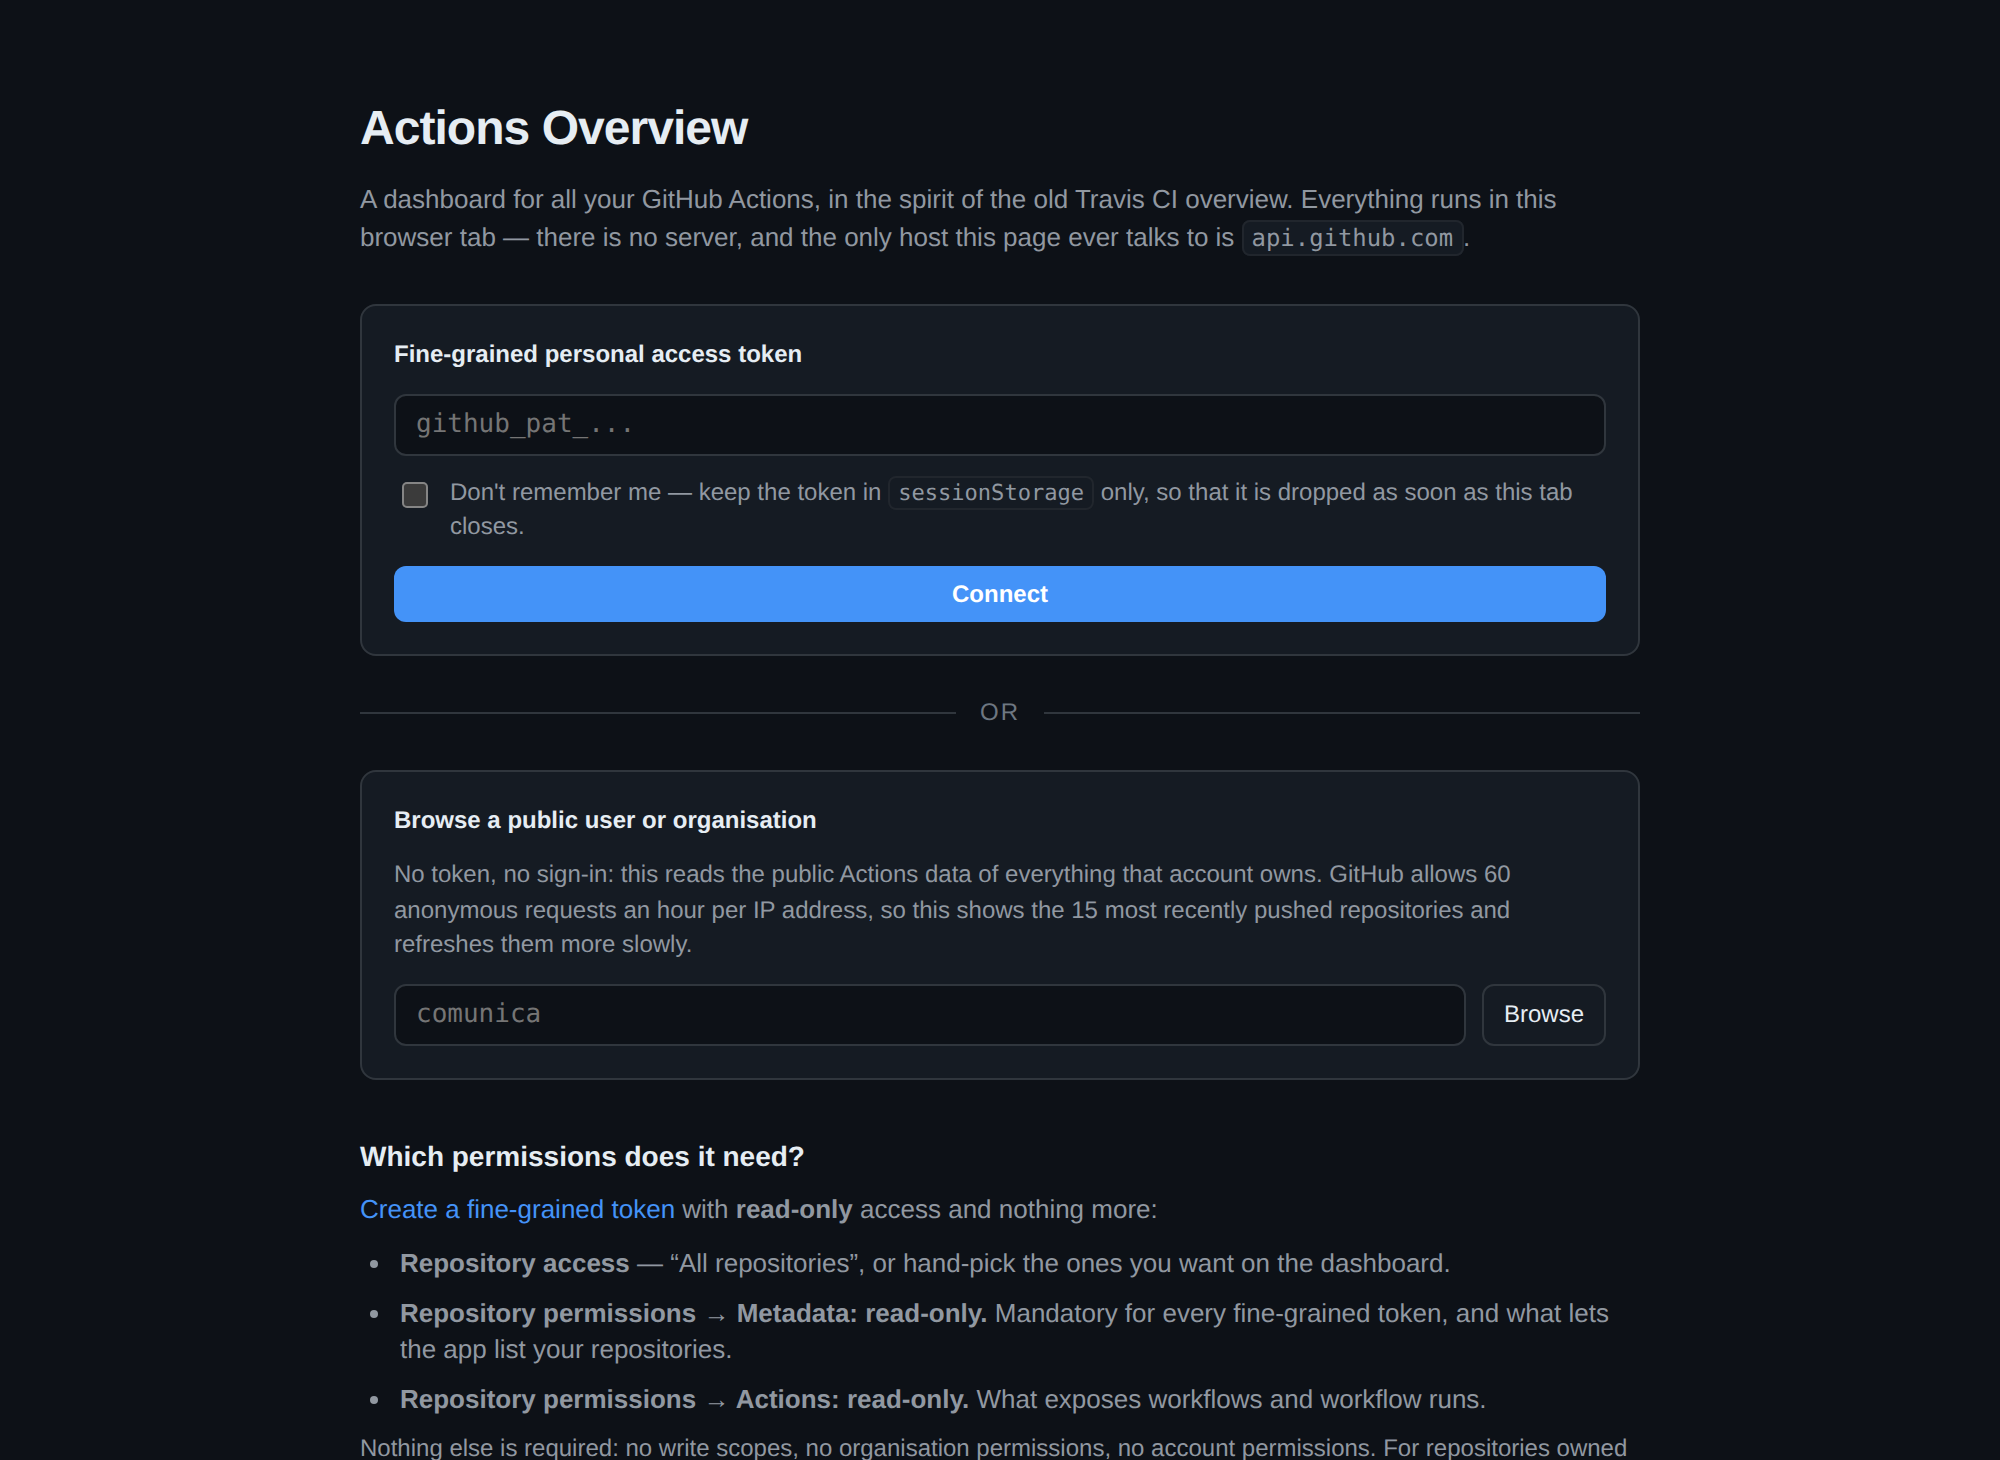
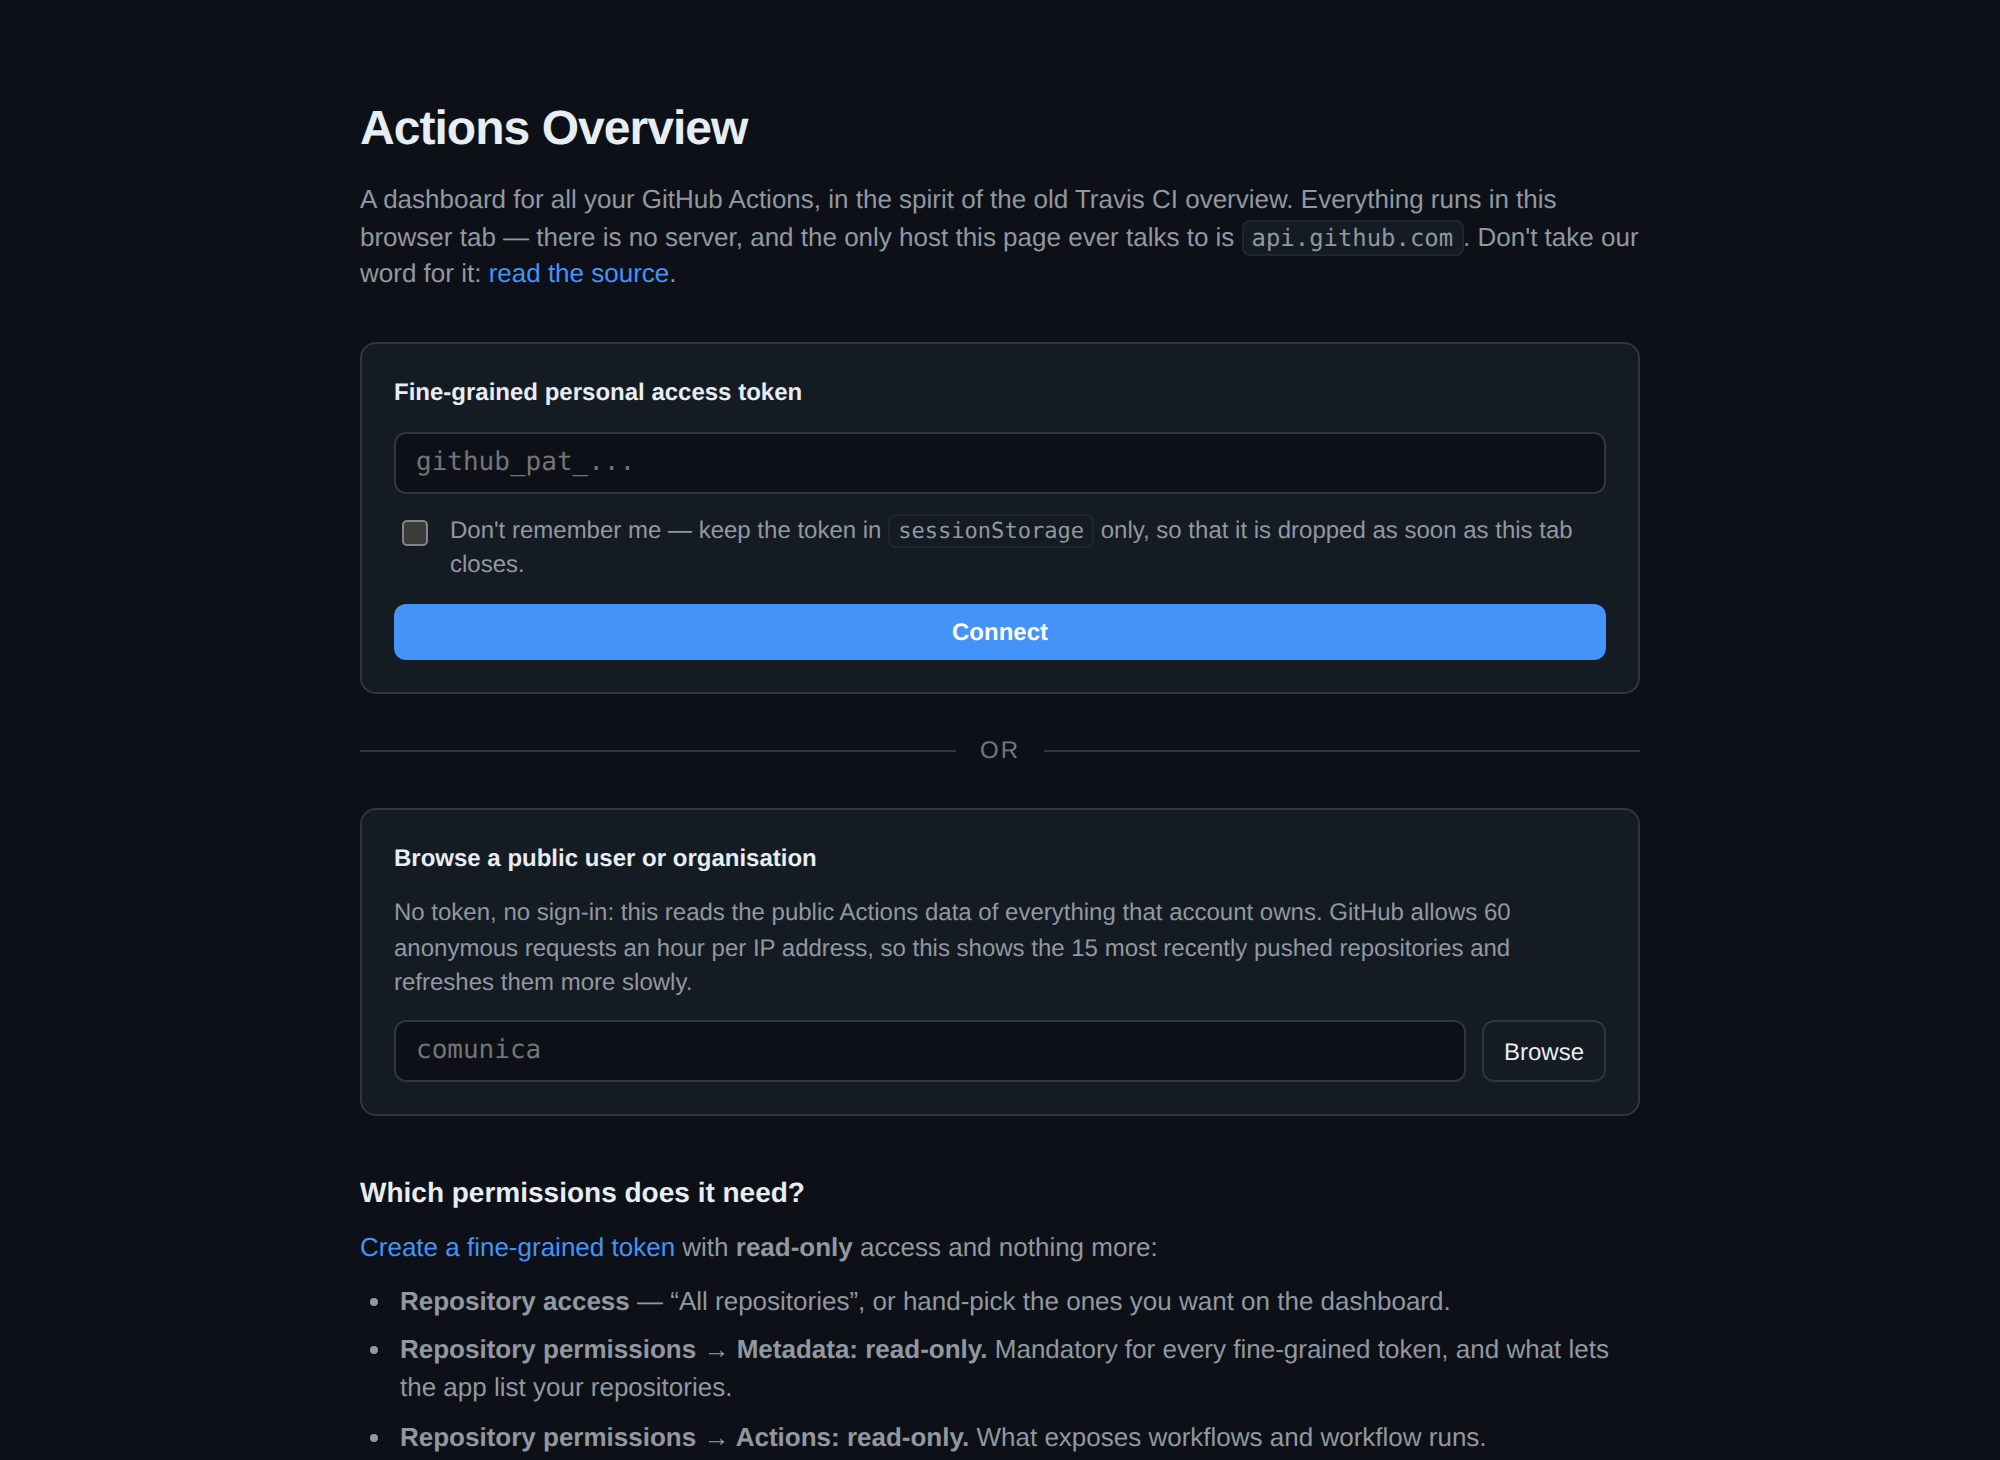
Link to the source from the status bar and the setup screen
A page that asks for a GitHub token should make it easy to go and read what it
does with that token, so the claim that nothing leaves the browser is checkable
rather than just asserted.

The setup screen links twice: from the lead paragraph, right after the claim
itself, and from a page footer that also names the licence. The status bar
carries a quiet "source" link at its right edge, hidden below 720px where the
bar has no room to spare.

The URL lives in one constant shared by both, so they cannot drift apart.

Claude-Session: https://claude.ai/code/session_0187wP9uN6boBhmaVQ3W6TAn

diff --git a/src/components/setup-screen.tsx b/src/components/setup-screen.tsx
@@ -1,4 +1,5 @@
 import { useState } from 'react';
+import { SOURCE_URL } from '../lib/links';
 
 const TOKEN_URL = 'https://github.com/settings/personal-access-tokens/new';
 
@@ -53,7 +54,10 @@ export function SetupScreen({ onConnect, onBrowse, initialError }: ISetupScreenP
         <p className="setup__lead">
           A dashboard for all your GitHub Actions, in the spirit of the old Travis CI overview.
           Everything runs in this browser tab — there is no server, and the only host this page ever
-          talks to is <code>api.github.com</code>.
+          talks to is <code>api.github.com</code>. Don&apos;t take our word for it:{' '}
+          <a className="link" href={SOURCE_URL} target="_blank" rel="noreferrer noopener">
+            read the source
+          </a>.
         </p>
 
         <form className="setup__form" onSubmit={submit}>
@@ -151,6 +155,13 @@ export function SetupScreen({ onConnect, onBrowse, initialError }: ISetupScreenP
             ever contacted. “Sign out” wipes it from both storages.
           </p>
         </section>
+
+        <footer className="setup__footer">
+          <a className="link" href={SOURCE_URL} target="_blank" rel="noreferrer noopener">
+            rubensworks/gh-actions-overview
+          </a>
+          {' '}— MIT licensed, and open to issues and pull requests.
+        </footer>
       </div>
     </div>
   );

diff --git a/test/components/status-footer.test.tsx b/test/components/status-footer.test.tsx
@@ -2,6 +2,7 @@ import { cleanup, render, screen } from '@testing-library/react';
 import { afterEach, describe, expect, it } from 'vitest';
 import { StatusFooter } from '../../src/components/status-footer';
 import { INITIAL_STATE } from '../../src/lib/dashboardStore';
+import { SOURCE_URL } from '../../src/lib/links';
 import type { IDashboardState } from '../../src/lib/types';
 import { NOW } from '../fixtures';
 
@@ -97,6 +98,22 @@ describe('StatusFooter', () => {
     it('shows the repository list error', () => {
       renderFooter({ repoListError: 'ghost: Not found' });
       expect(screen.getByText('ghost: Not found')).toBeDefined();
+    });
+  });
+
+  describe('source link', () => {
+    it('links to the repository in a new tab', () => {
+      const container = renderFooter();
+      const link = container.querySelector<HTMLAnchorElement>('.footer__source');
+      expect(link?.getAttribute('href')).toBe(SOURCE_URL);
+      expect(link?.getAttribute('target')).toBe('_blank');
+      expect(link?.getAttribute('rel')).toBe('noreferrer noopener');
+      expect(link?.textContent).toBe('source');
+    });
+
+    it('is there whatever the polling state is', () => {
+      const container = renderFooter({ paused: true, repoListError: 'boom' }, 3);
+      expect(container.querySelector('.footer__source')).not.toBeNull();
     });
   });
 

diff --git a/test/components/setup-screen.test.tsx b/test/components/setup-screen.test.tsx
@@ -1,6 +1,7 @@
 import { cleanup, fireEvent, render, screen, waitFor } from '@testing-library/react';
 import { afterEach, describe, expect, it, vi } from 'vitest';
 import { SetupScreen } from '../../src/components/setup-screen';
+import { SOURCE_URL } from '../../src/lib/links';
 
 afterEach(cleanup);
 
@@ -36,6 +37,23 @@ describe('SetupScreen', () => {
     renderSetup();
     expect(screen.getByText(/Metadata: read-only/u)).toBeDefined();
     expect(screen.getByText(/Actions: read-only/u)).toBeDefined();
+  });
+
+  describe('source link', () => {
+    it('invites the reader to check the source from the lead paragraph', () => {
+      renderSetup();
+      const link = screen.getByText('read the source');
+      expect(link.getAttribute('href')).toBe(SOURCE_URL);
+      expect(link.getAttribute('target')).toBe('_blank');
+      expect(link.getAttribute('rel')).toBe('noreferrer noopener');
+    });
+
+    it('names the repository in the page footer', () => {
+      renderSetup();
+      const link = screen.getByText('rubensworks/gh-actions-overview');
+      expect(link.getAttribute('href')).toBe(SOURCE_URL);
+      expect(link.closest('.setup__footer')).not.toBeNull();
+    });
   });
 
   it('keeps the token field masked', () => {

diff --git a/src/styles.css b/src/styles.css
@@ -267,6 +267,14 @@ a:hover {
   gap: 7px;
 }
 
+.setup__footer {
+  margin-top: 32px;
+  padding-top: 16px;
+  border-top: 1px solid var(--border-subtle);
+  font-size: 12px;
+  color: var(--text-faint);
+}
+
 .setup__section {
   margin-top: 28px;
 }
@@ -923,6 +931,15 @@ a.run:hover .run__open {
 .footer__quota--low .footer__quota-fill { background: var(--failure); }
 .footer__quota--low { color: var(--failure); }
 
+.footer__source {
+  color: var(--text-faint);
+  white-space: nowrap;
+}
+
+.footer__source:hover {
+  color: var(--accent);
+}
+
 /* ----------------------------------------------------------------- phones */
 
 @media (width <= 720px) {
@@ -1036,7 +1053,8 @@ a.run:hover .run__open {
   }
 
   .footer__item--muted,
-  .footer__quota-bar {
+  .footer__quota-bar,
+  .footer__source {
     display: none;
   }
 }

diff --git a/src/components/status-footer.tsx b/src/components/status-footer.tsx
@@ -1,3 +1,4 @@
+import { SOURCE_URL } from '../lib/links';
 import { formatRelative, formatUntil } from '../lib/time';
 import type { IDashboardState } from '../lib/types';
 
@@ -66,6 +67,16 @@ export function StatusFooter({ state, hiddenCount, now }: IStatusFooterProps) {
               {formatUntil(rateLimit.reset, now)}
             </span>
           )}
+
+      <a
+        className="footer__source"
+        href={SOURCE_URL}
+        target="_blank"
+        rel="noreferrer noopener"
+        title="Read the source of this dashboard on GitHub"
+      >
+        source
+      </a>
     </footer>
   );
 }

diff --git a/src/lib/links.ts b/src/lib/links.ts
@@ -1,0 +1,5 @@
+/**
+ * Where this app's source lives. Shown on the setup screen and in the status bar, because a page
+ * that asks for a GitHub token should make it easy to go read what it does with it.
+ */
+export const SOURCE_URL = 'https://github.com/rubensworks/gh-actions-overview/';
